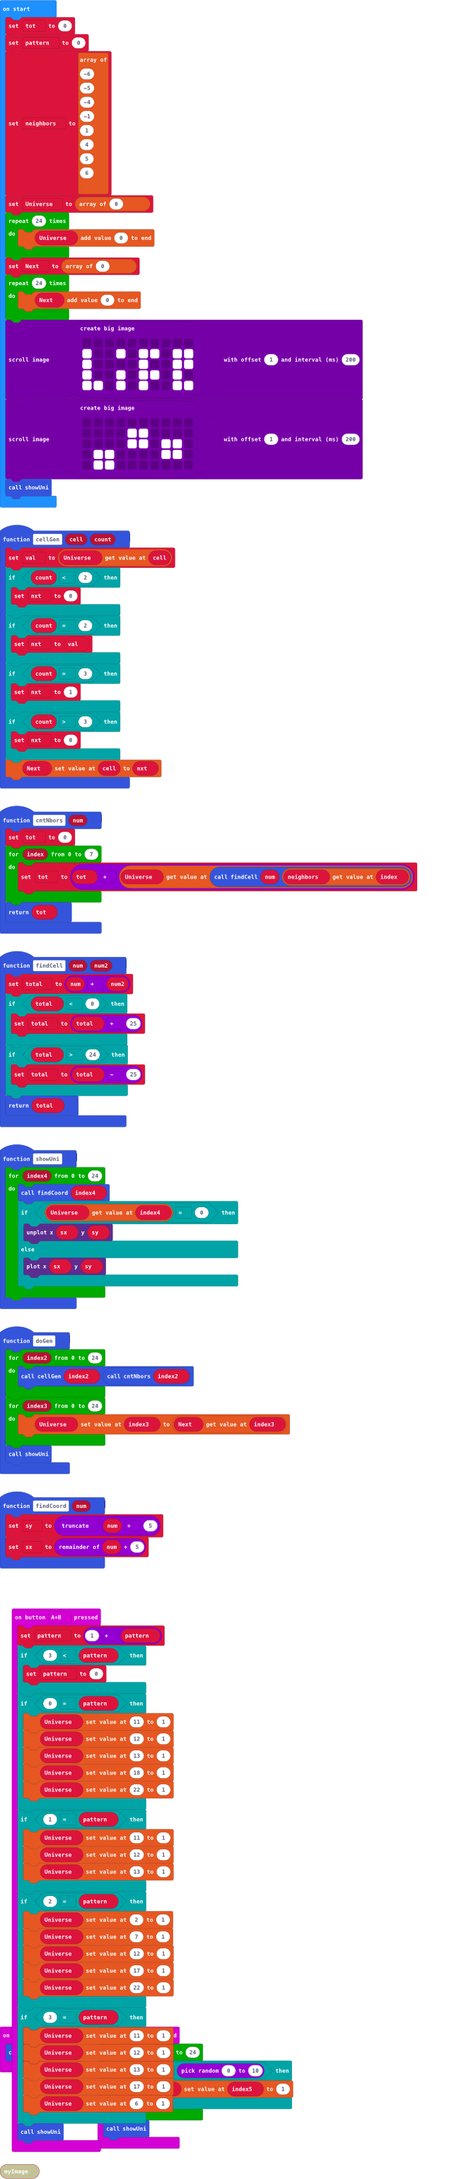
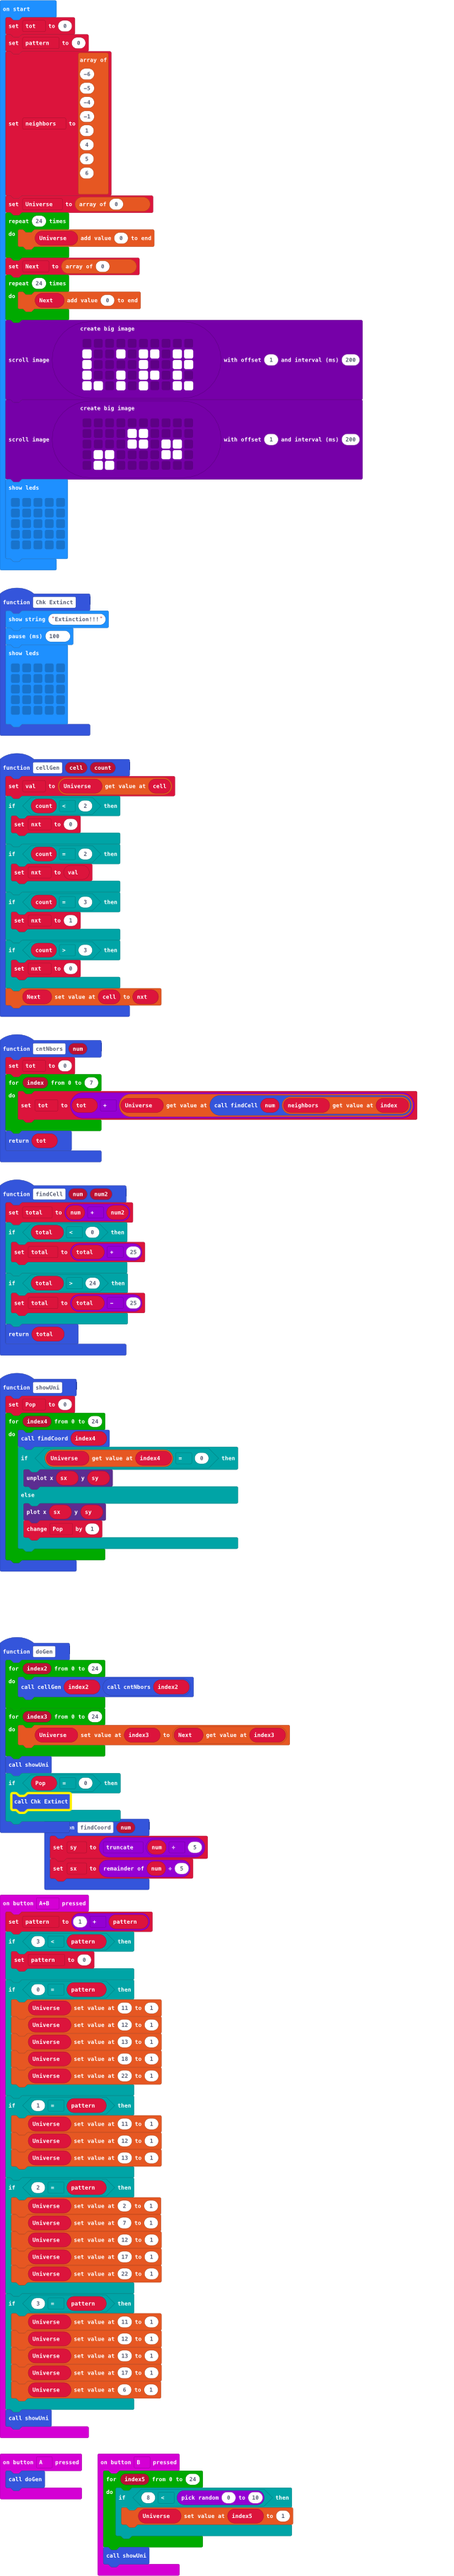
Update main.blocks, main.ts

diff --git a/main.ts b/main.ts
@@ -39,14 +39,30 @@ function doGen () {
         Universe[index3] = Next[index3]
     }
     showUni()
+    if (Pop == 0) {
+        Chk_Extinct()
+    }
+}
+function Chk_Extinct () {
+    basic.showString("Extinction!!!")
+    basic.pause(100)
+    basic.showLeds(`
+        . . . . .
+        . . . . .
+        . . . . .
+        . . . . .
+        . . . . .
+        `)
 }
 function showUni () {
+    Pop = 0
     for (let index4 = 0; index4 <= 24; index4++) {
         findCoord(index4)
         if (Universe[index4] == 0) {
             led.unplot(sx, sy)
         } else {
             led.plot(sx, sy)
+            Pop += 1
         }
     }
 }
@@ -100,6 +116,7 @@ function findCoord (num: number) {
 }
 let sy = 0
 let sx = 0
+let Pop = 0
 let total = 0
 let nxt = 0
 let val = 0
@@ -133,4 +150,10 @@ images.createBigImage(`
     . # # . . . . # # .
     . # # . . . . . . .
     `).scrollImage(1, 200)
-showUni()
+basic.showLeds(`
+    . . . . .
+    . . . . .
+    . . . . .
+    . . . . .
+    . . . . .
+    `)
